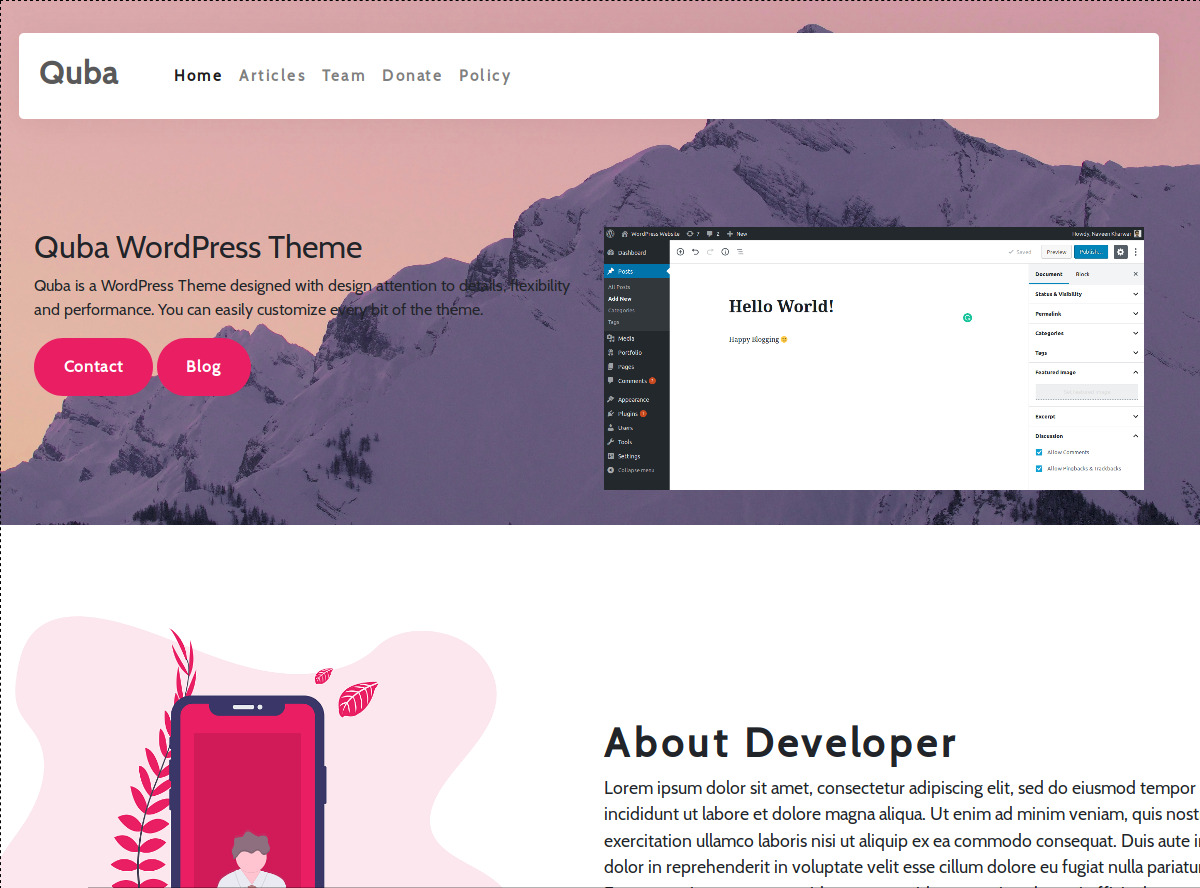
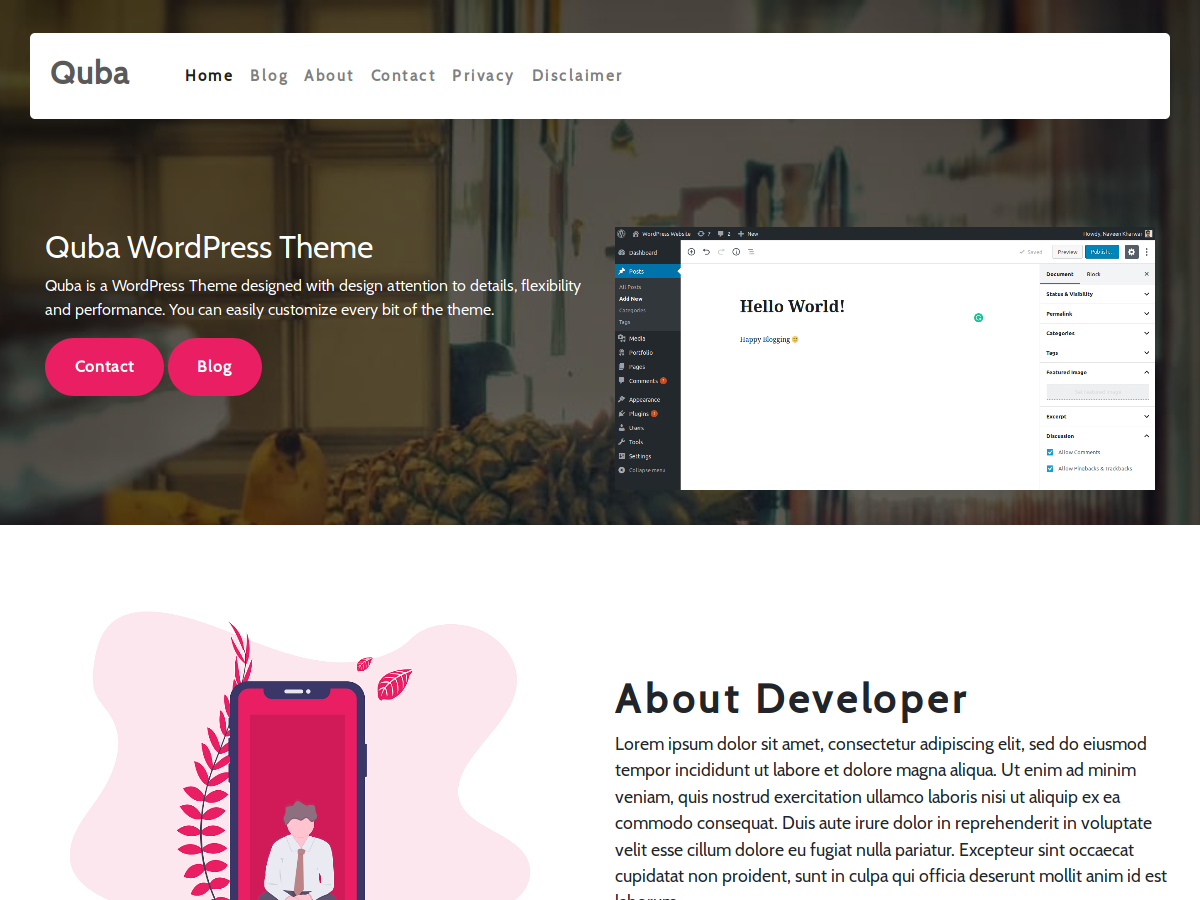
:wrench: Fixed style.css and screenshot.png :art:

diff --git a/style.css b/style.css
@@ -1,8 +1,7 @@
 /*!
 Theme Name: Quba
 Theme URI: https://demo.naveenkharwar.com/theme/quba/
-Author: Naveen Kharwar
-Author URI: http://naveenkharwar.com
+Author: <a href="http://naveenkharwar.com">Naveen Kharwar</a> & <a href="http://harsh98trivedi.github.io">Harsh Trivedi</a>
 Description: Quba is a one-page and highly customizable WordPress theme for developers, designers & freelancers, to showcase their profile.
 Requires at least: WordPress 4.9.6
 Version: 0.5.0
@@ -250,7 +249,7 @@ a:hover, a:active { outline: 0; }
 
 .nav-link:hover::after { width: 100%; left: 0; background: black; }
 
-.header-backgroundColor { background-color: rgba(0,0,0,0.75); position: absolute; top: 0; left: 0; width: 100%; height: 100%;}
+.header-backgroundColor { background-color: rgba(0,0,0,0.60); position: absolute; top: 0; left: 0; width: 100%; height: 100%;}
 
 .intro-text { color:#fff; }
 /*--------------------------------------------------------------
